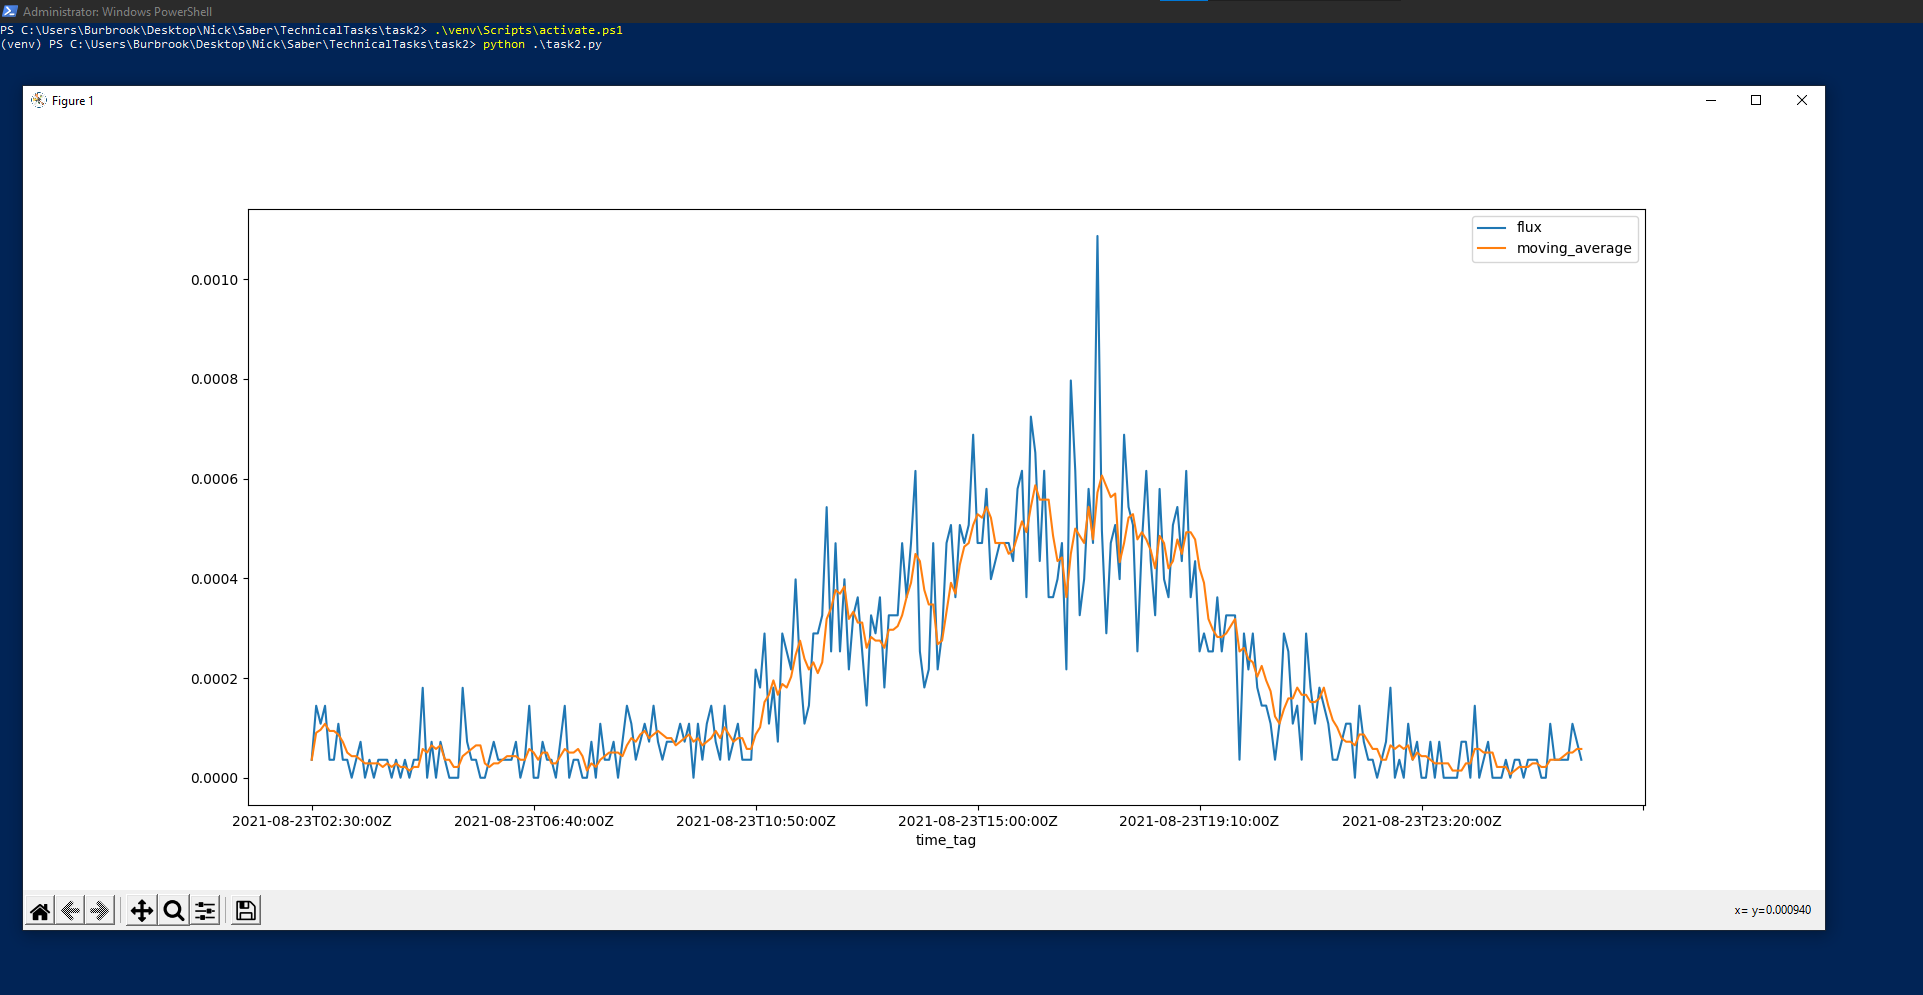
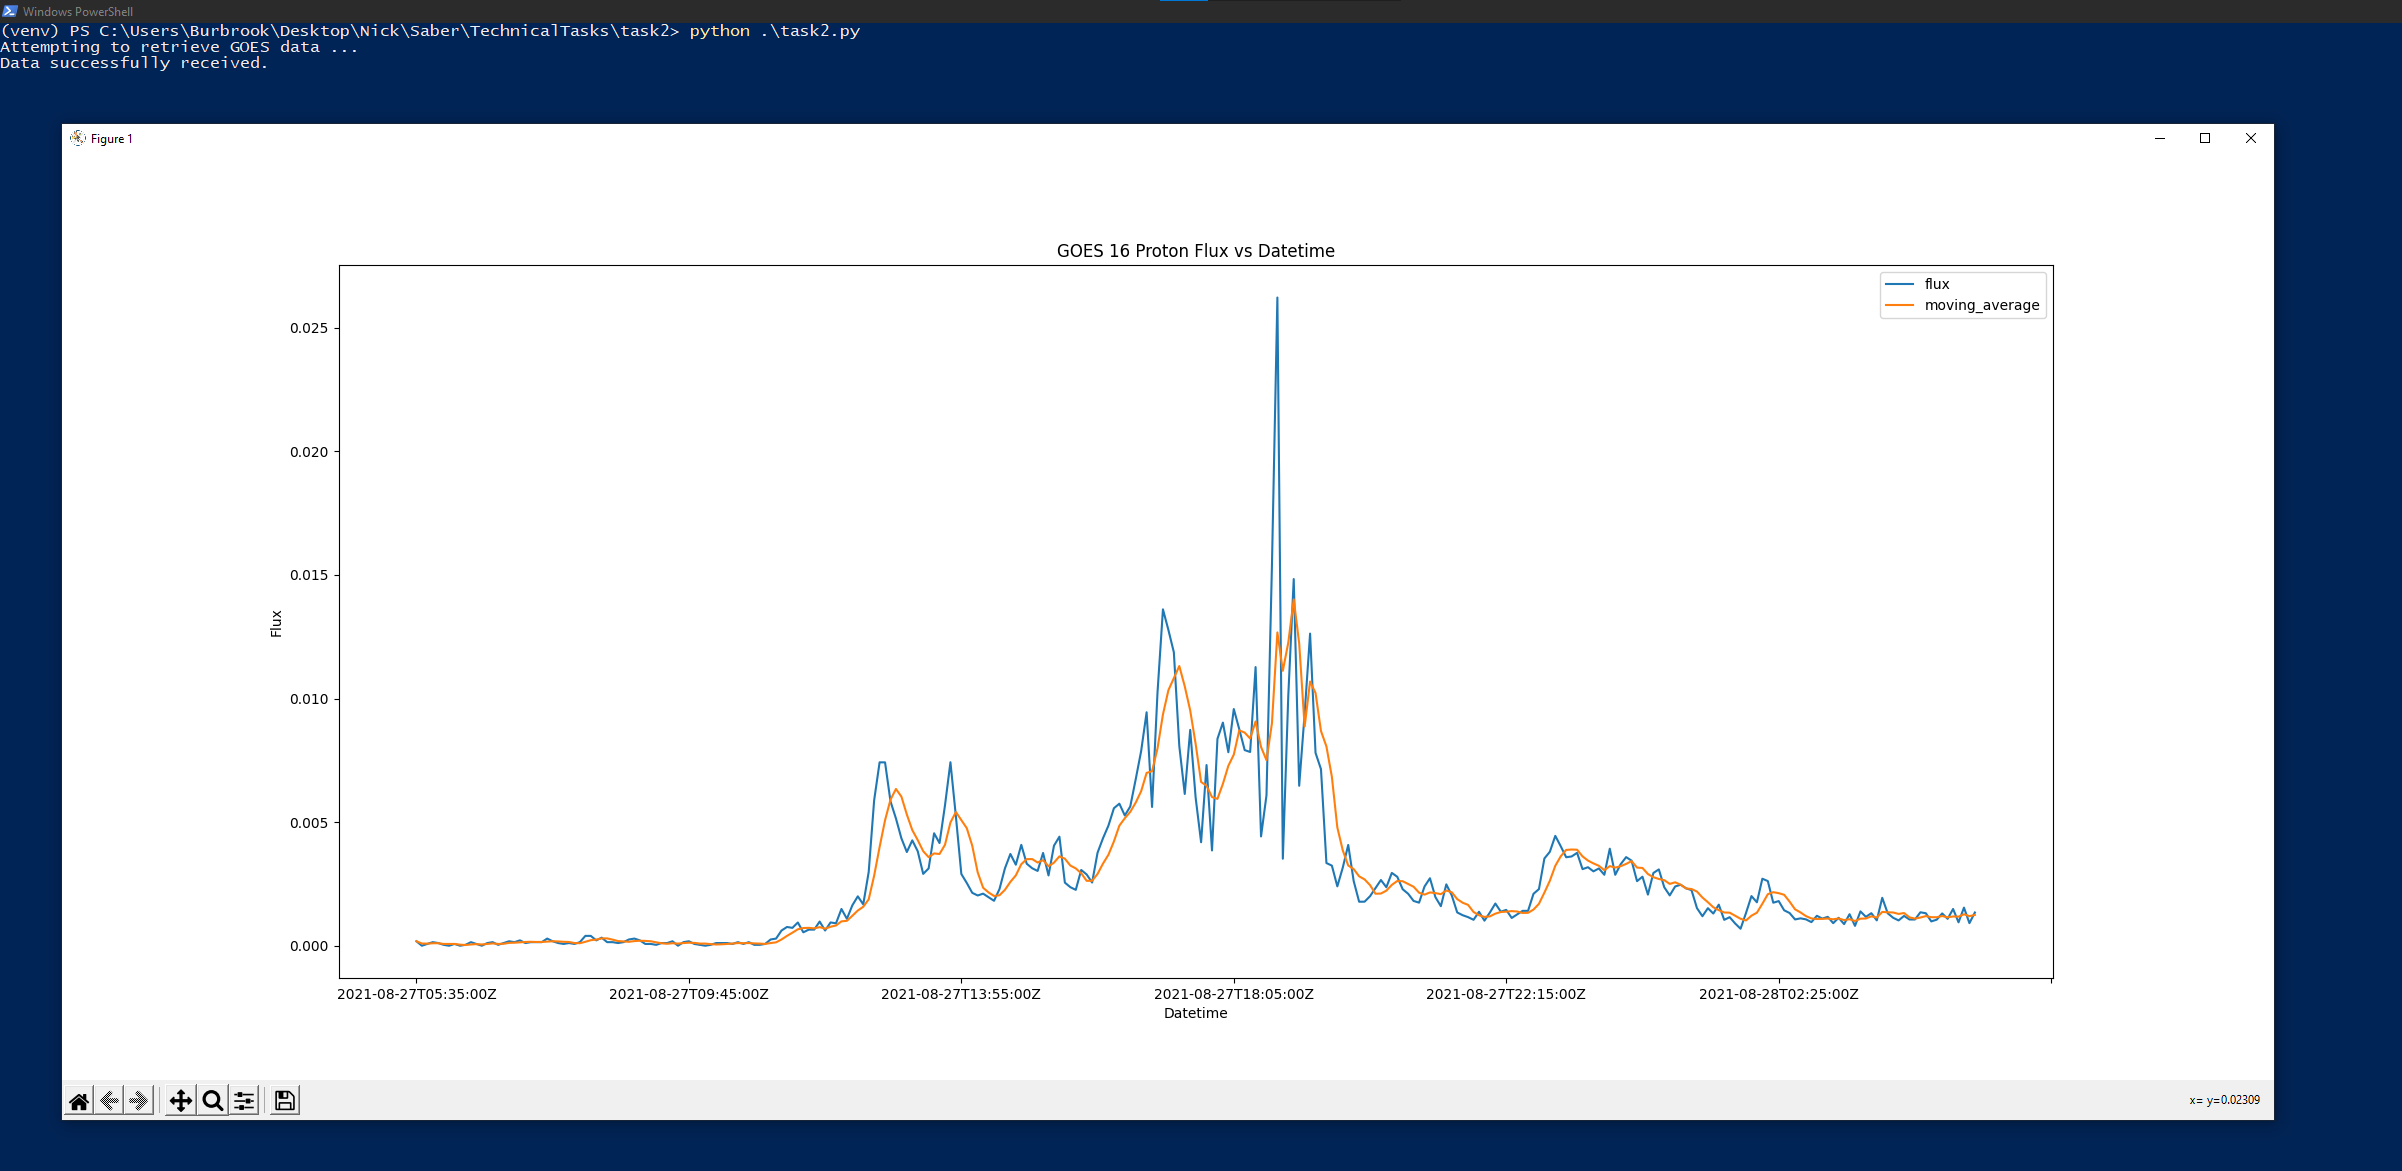
Task2 now downloads JSON instead of loading from local file

diff --git a/task2/task2.py b/task2/task2.py
@@ -4,26 +4,41 @@ import sys
 
 import pandas as pd
 import matplotlib.pyplot as plt
+import requests
 
 
-def load_json_data(json_file):
+# Get JSON data from json_url and load it into a Pandas DataFrame
+def load_json_data(json_url):
+    print("Attempting to retrieve GOES data ...")
     try:
-        df = pd.read_json(json_file)
-    except ValueError:
-        print(json_file + " is not found. Please check file exists and is named correctly.")
+        data = requests.get(json_url)
+        df = pd.DataFrame(data.json())
+    except Exception as E:
+        print("Failed to retrieve GOES data", E)
         sys.exit(1)
+    print("Data successfully received.")
+
+    # Uncomment to load proton data from local file instead of remotely.
+    # try:
+    #     df = pd.read_json(json_url)
+    # except ValueError:
+    #     print(json_url + " is not found. Please check file exists and is named correctly.")
+    #     sys.exit(1)
     return df
 
 
 if __name__ == '__main__':
-
-    # File path/name containing Proton JSON data.
-    PROTON_DATA_FILE = "differential-protons-1-day.json"
+    # Constants
     # Rolling average of 20 Minutes. Every 1 sample is 5 minutes apart.
     MOVING_AVERAGE = 5
+    GOES_URL = 'https://services.swpc.noaa.gov/json/goes/primary/differential-protons-1-day.json'
+
+    # Load file from local filesystem to increase testing speed.
+    # File path/name containing Proton JSON data.
+    # GOES_URL = "differential-protons-1-day.json"
 
     # Read in JSON to Panda DataFrame.
-    df = load_json_data(PROTON_DATA_FILE)
+    df = load_json_data(GOES_URL)
 
     # Set the DataFrame index to the datetime.
     df.set_index("time_tag", inplace=True)
@@ -40,6 +55,5 @@ if __name__ == '__main__':
     time_flux_average_df["moving_average"] = time_flux_df.flux.rolling(MOVING_AVERAGE, min_periods=1).mean()
 
     # Plot the rolling average and raw data against time
-    time_flux_average_df.plot()
+    time_flux_average_df.plot(xlabel='Datetime', ylabel='Flux', title='GOES 16 Proton Flux vs Datetime')
     plt.show()
-
